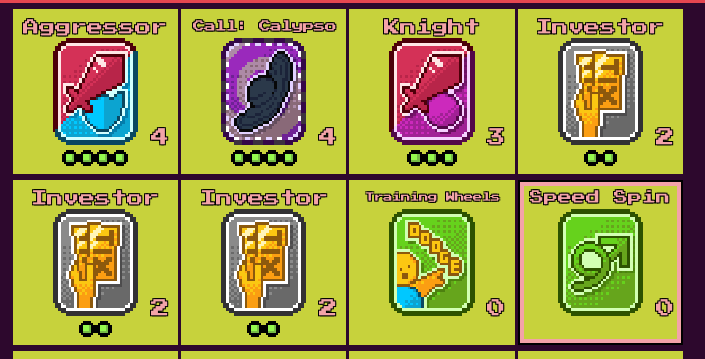
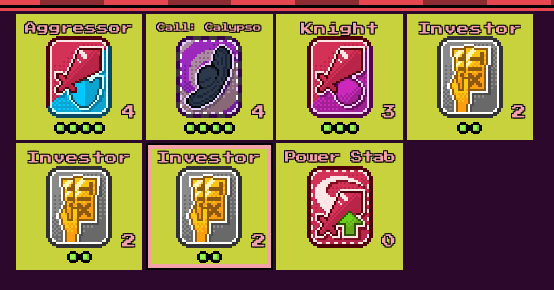
make deck easyer to build

diff --git a/iceking_tixfarmer.py b/iceking_tixfarmer.py
@@ -24,7 +24,7 @@ def enter():
 
 def call():
     action("Call calypso")
-    for i in ['d', 's', 'space', 's', 'space']:
+    for i in ['d', 's', 'space', 'd', 'd', 'd', 'space']:
         click(i)
     timeout(3)
 

diff --git a/README.md b/README.md
@@ -12,9 +12,9 @@ get this repo (its just one script really)
 
 takes these cards:
 
-agressor, calypso, knight, and as many ivestors as possible
+agressor, calypso, knight, power stab, and as many investors as possible 
 
-![cards.png](cards.png)
+![no image :(](cards.png)
 
 btw you need 18sp and 7hp minimum
 
